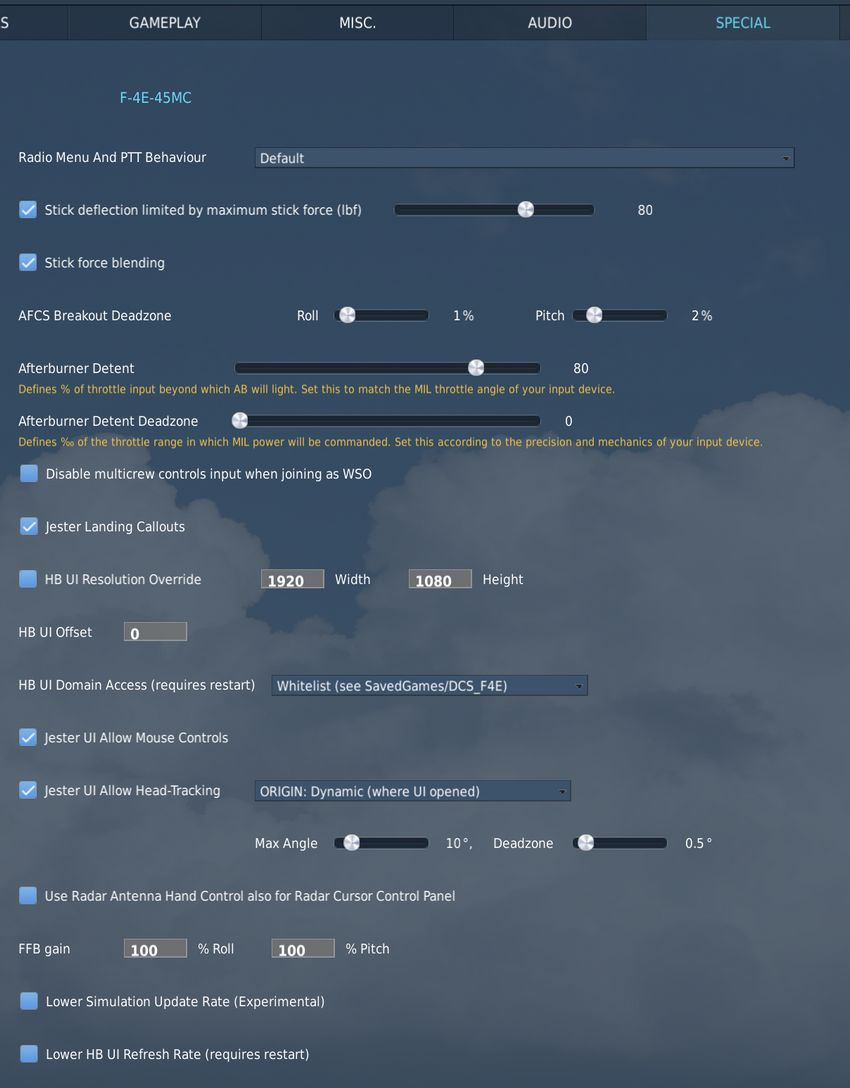
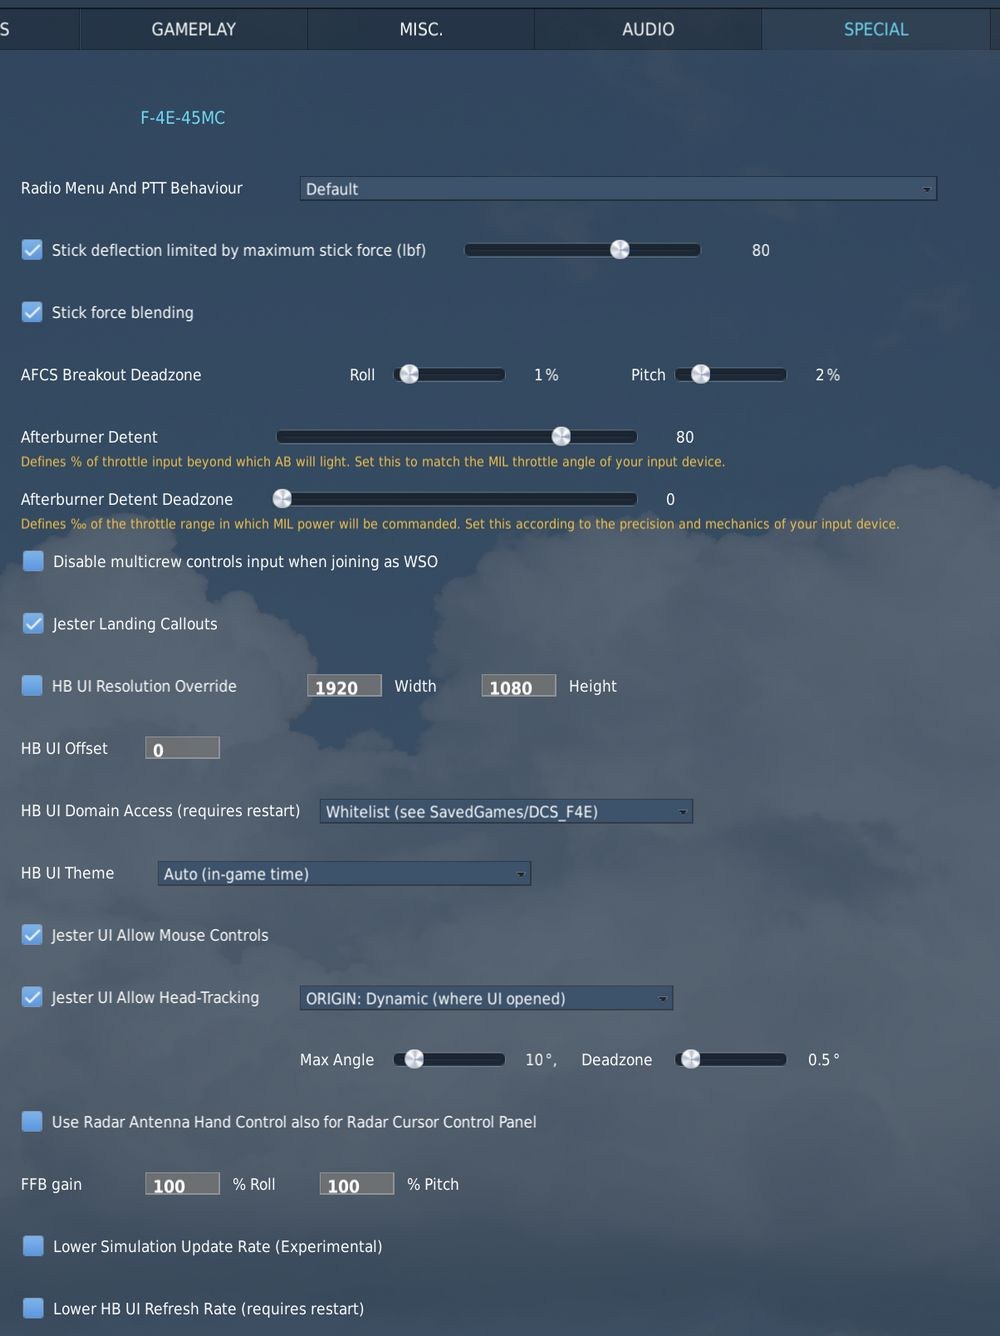
Special Option to select UI Theme (auto, light, dark)

diff --git a/src/dcs/special_options.md b/src/dcs/special_options.md
@@ -155,6 +155,16 @@ when launching the Phantom for the first time.
 Selecting **Offline** will disable the Virtual Browser and any other HB UI
 features and elements that require an active online connection.
 
+### Theme
+
+![UI Theme](../img/special_option_hb_ui_theme.jpg)
+
+Allows to select which color theme is used by the UI. All UI elements support a
+light and a dark theme.
+
+The default option **AUTO** will pick the theme dynamically based on the in-game
+time. Light during the day and Dark for a night mission.
+
 ## Jester UI
 
 ### Allow Mouse Controls
